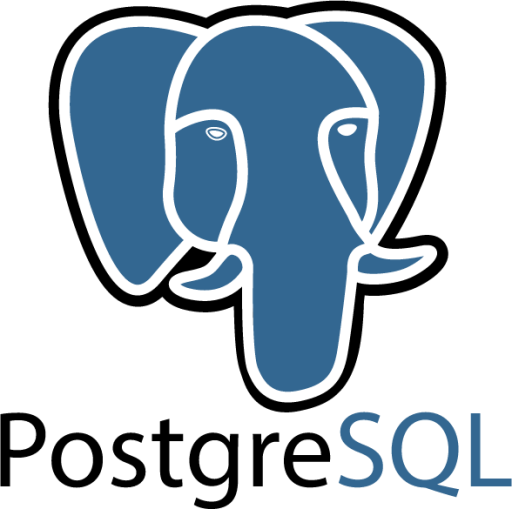
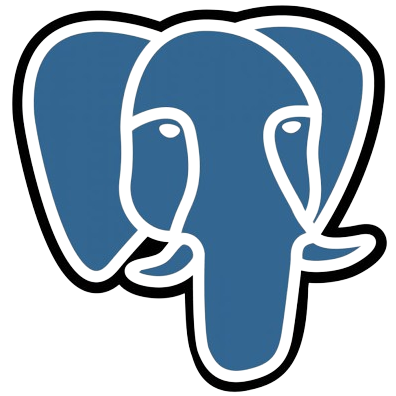
[Chore] 스킬 추가 및 이미지 변경

diff --git a/data/skillStackData.ts b/data/skillStackData.ts
@@ -107,6 +107,19 @@ const skillStackData: SkillStack[] = [
         level: 0.5,
       },
       {
+        name: 'Java',
+        description:
+          'Java 문법을 이해하고 적용할 수 있으며, 객체 지향 프로그래밍을 학습하고 있습니다.',
+        icon: '/static/images/skills/java.png',
+        level: 0.4,
+      },
+      {
+        name: 'Spring',
+        description: 'Spring 프레임워크를 이용하여 RESTful 서비스를 구축할 수 있습니다.',
+        icon: '/static/images/skills/spring.png',
+        level: 0.3,
+      },
+      {
         name: 'MySQL',
         description: 'MySQL을 사용하여 관계형 데이터베이스를 설계하고 관리할 수 있습니다.',
         icon: '/static/images/skills/mysql.png',
@@ -139,7 +152,7 @@ const skillStackData: SkillStack[] = [
     skills: [
       {
         name: 'git',
-        description: 'git을 사용하여 코드 버전 관리 및 협업을 수행할 수 있습니다.',
+        description: 'git을 사용하여 코드 버전 관리 및 협업�� 수행할 수 있습니다.',
         icon: '/static/images/skills/git.png',
         level: 0.7,
       },
